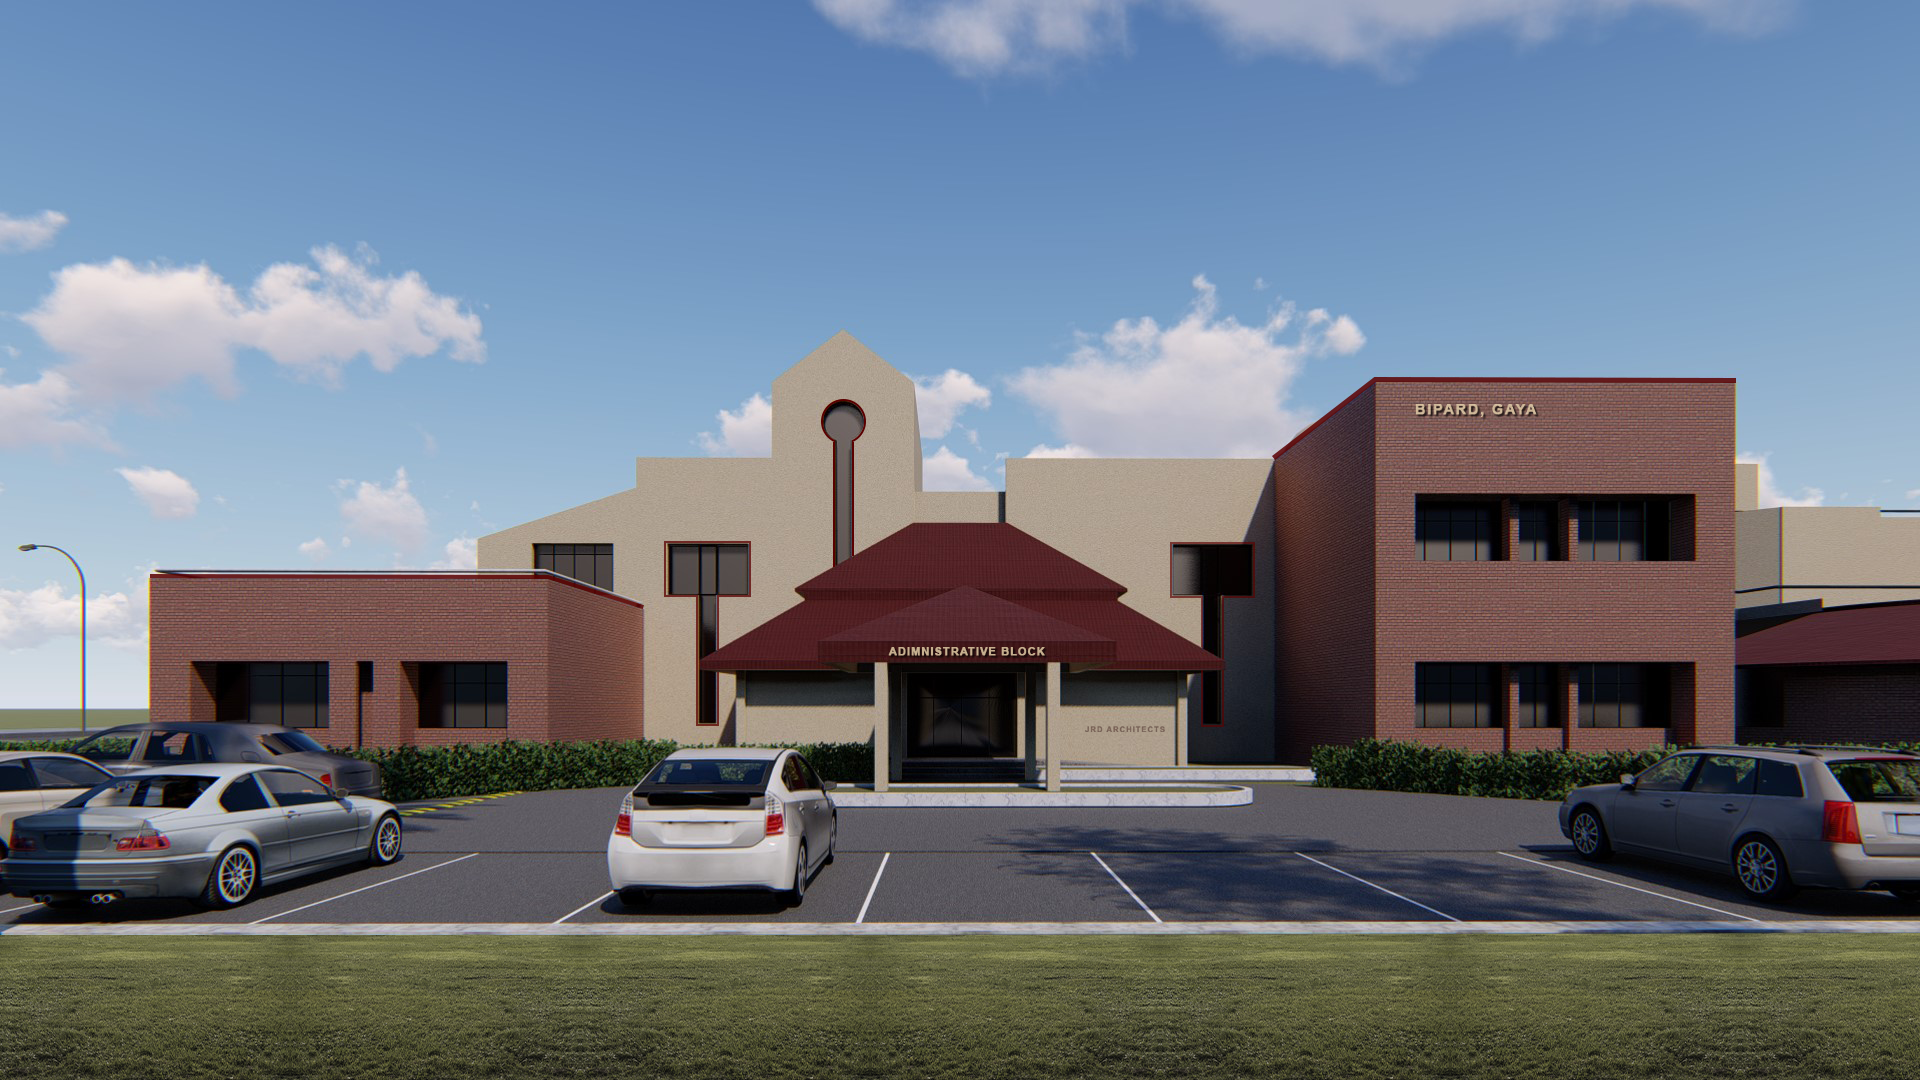
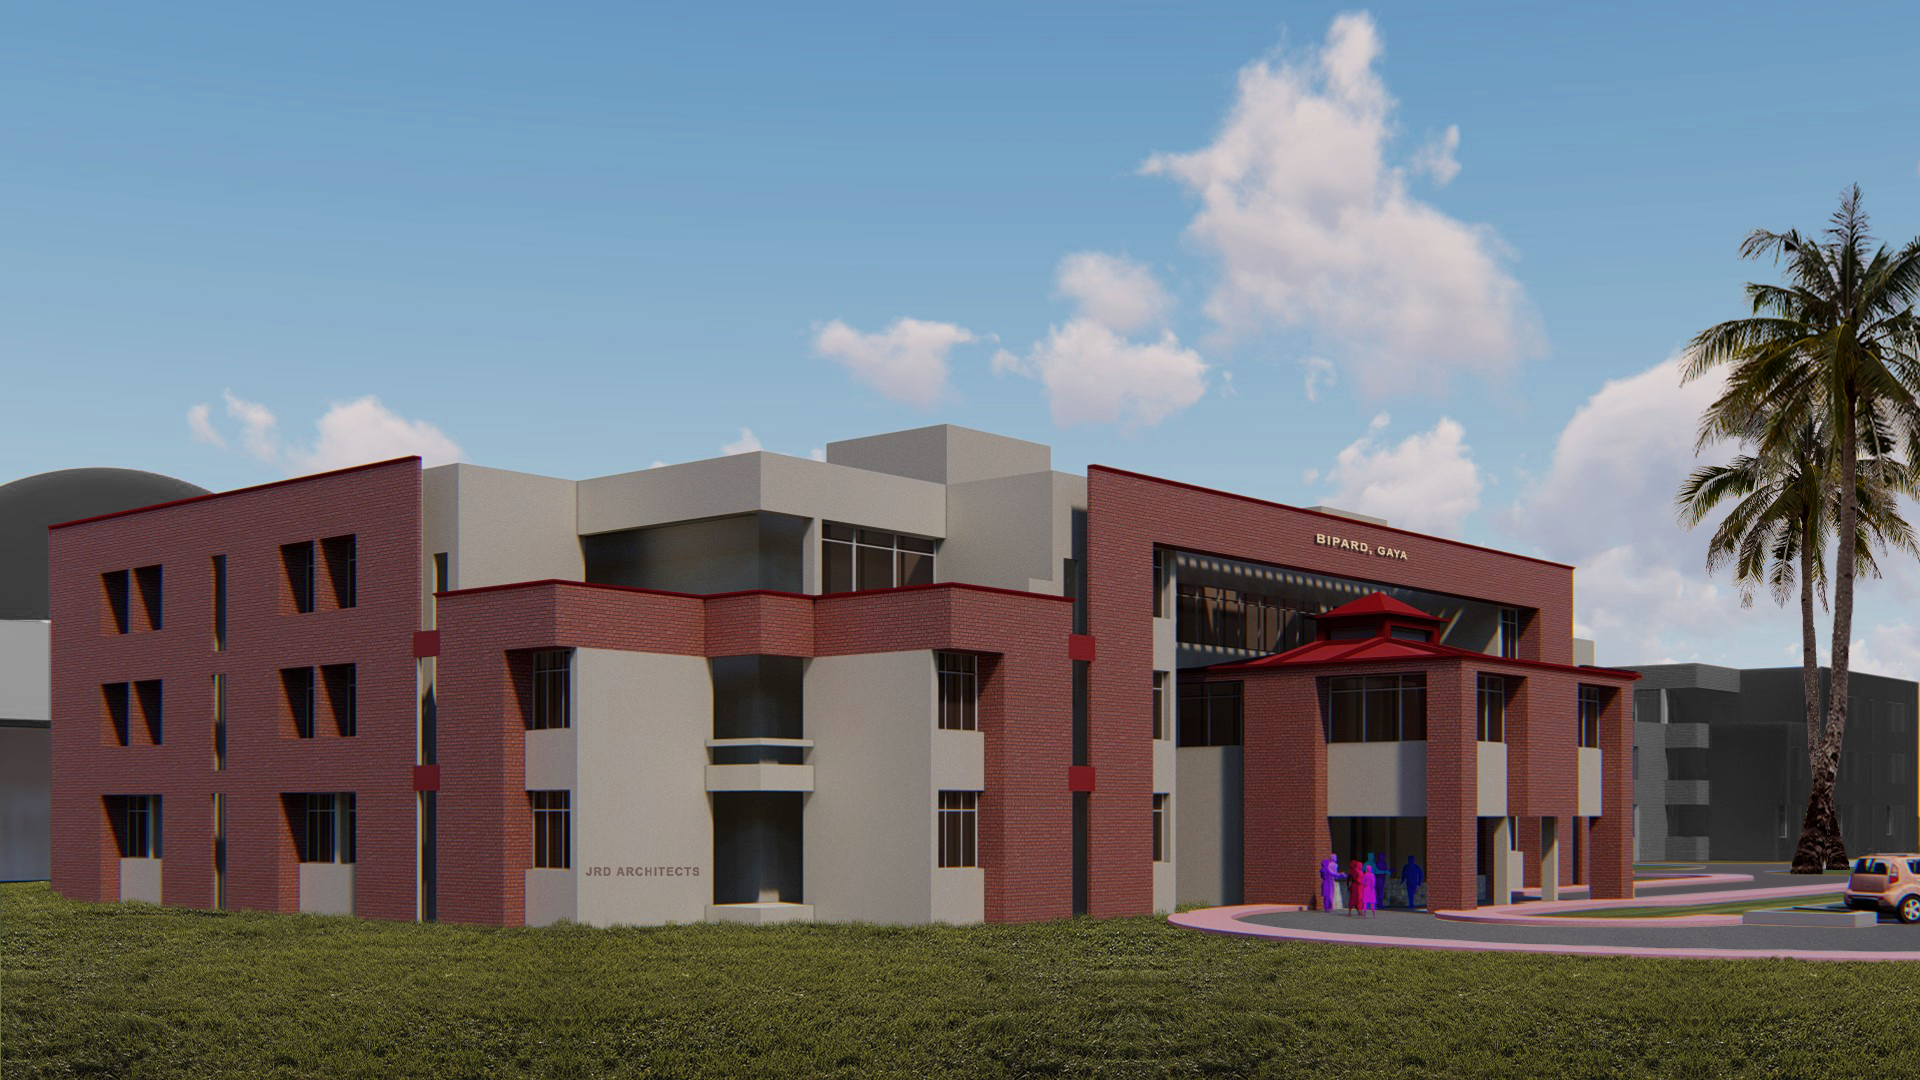
update

diff --git a/components/Prizes.vue b/components/Prizes.vue
@@ -141,35 +141,36 @@ import { ref, reactive, onUnmounted } from 'vue'
 const prizes = ref([
   {
     year: "2010",
-    title: "Bihar State Guest House",
+    title: "Bipard, Gaya",
     description: "Excellence in Architectural Design for the innovative approach to sustainable state architecture, combining traditional elements with modern functionality.",
     images: [
-      "/Projects/HOUSING/Maa Tara Housing, Patna/Maa Tara Housing1.jpg",
-      "/Projects/HOUSING/Maa Tara Housing, Patna/Maa Tara Housing2.jpg",
-      "/Projects/HOUSING/Maa Tara Housing, Patna/Maa Tara Housing3.jpg",
-      "/Projects/HOUSING/Maa Tara Housing, Patna/Maa Tara Housing4.jpg"
+      "/Projects/COMPETITIONS/BIPARD, GAYA/1.jpg",
+      "/Projects/COMPETITIONS/BIPARD, GAYA/2.jpg",
+      "/Projects/COMPETITIONS/BIPARD, GAYA/3.png",
+      "/Projects/COMPETITIONS/BIPARD, GAYA/4.jpg",
+      "/Projects/COMPETITIONS/BIPARD, GAYA/5.jpg",
+      "/Projects/COMPETITIONS/BIPARD, GAYA/6.png",
+      "/Projects/COMPETITIONS/BIPARD, GAYA/7.png",
     ]
   },
   {
     year: "2015",
-    title: "Seevusagur Ramgulam Chowk",
+    title: "State Guest House, Patna",
     description: "Outstanding Urban Development achievement for transforming public spaces into vibrant community centers while preserving cultural heritage.",
     images: [
-      "/Projects/HOUSING/Maa Tara Housing, Patna/Maa Tara Housing1.jpg",
-      "/Projects/HOUSING/Maa Tara Housing, Patna/Maa Tara Housing2.jpg",
-      "/Projects/HOUSING/Maa Tara Housing, Patna/Maa Tara Housing3.jpg"
+      "/Projects/COMPETITIONS/Desh Ratna Marg/1.jpg",
+      "/Projects/COMPETITIONS/Desh Ratna Marg/2.jpg",
+      "/Projects/COMPETITIONS/Desh Ratna Marg/3.jpg",
+      "/Projects/COMPETITIONS/Desh Ratna Marg/4.jpg",
     ]
   },
   {
     year: "2019",
-    title: "Shri Krishna Nagar",
+    title: "Bal Bhawan",
     description: "Best Residential Complex Design award for creating sustainable, community-focused living spaces that redefine modern urban housing.",
     images: [
-      "/Projects/HOUSING/Maa Tara Housing, Patna/Maa Tara Housing1.jpg",
-      "/Projects/HOUSING/Maa Tara Housing, Patna/Maa Tara Housing2.jpg",
-      "/Projects/HOUSING/Maa Tara Housing, Patna/Maa Tara Housing3.jpg",
-      "/Projects/HOUSING/Maa Tara Housing, Patna/Maa Tara Housing4.jpg",
-      "/Projects/HOUSING/Maa Tara Housing, Patna/Maa Tara Housing5.jpg"
+      'Projects/COMPETITIONS/Bal Bhawan Patna/1.jpg',
+      'Projects/COMPETITIONS/Bal Bhawan Patna/2.jpg',
     ]
   }
 ])

diff --git a/components/ProjectsSection.vue b/components/ProjectsSection.vue
@@ -51,11 +51,15 @@ const selectedProject = ref(null);
 const projects = ref([
   {
     id: 1,
-    name: 'South Elevation',
-    mainImage: 'Projects/south elevation1.jpg',
+    name: 'BIPARD',
+    mainImage: 'Projects/COMPETITIONS/BIPARD, GAYA/1.jpg',
     additionalImages: [
-      'Projects/south elevation1.jpg',
-      'Projects/south elevation1.jpg'
+      'Projects/COMPETITIONS/BIPARD, GAYA/2.jpg',
+      'Projects/COMPETITIONS/BIPARD, GAYA/3.png',
+      'Projects/COMPETITIONS/BIPARD, GAYA/4.jpg',
+      'Projects/COMPETITIONS/BIPARD, GAYA/5.jpg',
+      'Projects/COMPETITIONS/BIPARD, GAYA/6.png',
+      'Projects/COMPETITIONS/BIPARD, GAYA/7.png',
     ],
     description: 'Contemporary architectural design with sustainable elements',
     category: 'COMMERCIAL',

diff --git a/pages/projects.vue b/pages/projects.vue
@@ -247,12 +247,11 @@ export default {
         },
         {
           id: 9,
-          name: 'ZP',
-          mainImage: 'Projects/COMMERCIAL/ZP.jpg',
+          name: 'Zila Parishad, Begusarai',
+          mainImage: 'Projects/COMMERCIAL/zp begu3.jpg',
           additionalImages: [
-            'Projects/COMMERCIAL/ZP2.jpg',
-            'Projects/COMMERCIAL/ZP11.jpg',
-            'Projects/COMMERCIAL/zp beg.jpg',
+            'Projects/COMMERCIAL/zp begu5.jpg',
+            'Projects/COMMERCIAL/zp beg.JPG',
           ],
           description: 'Elegant outdoor living space',
           category: 'COMMERCIAL',
